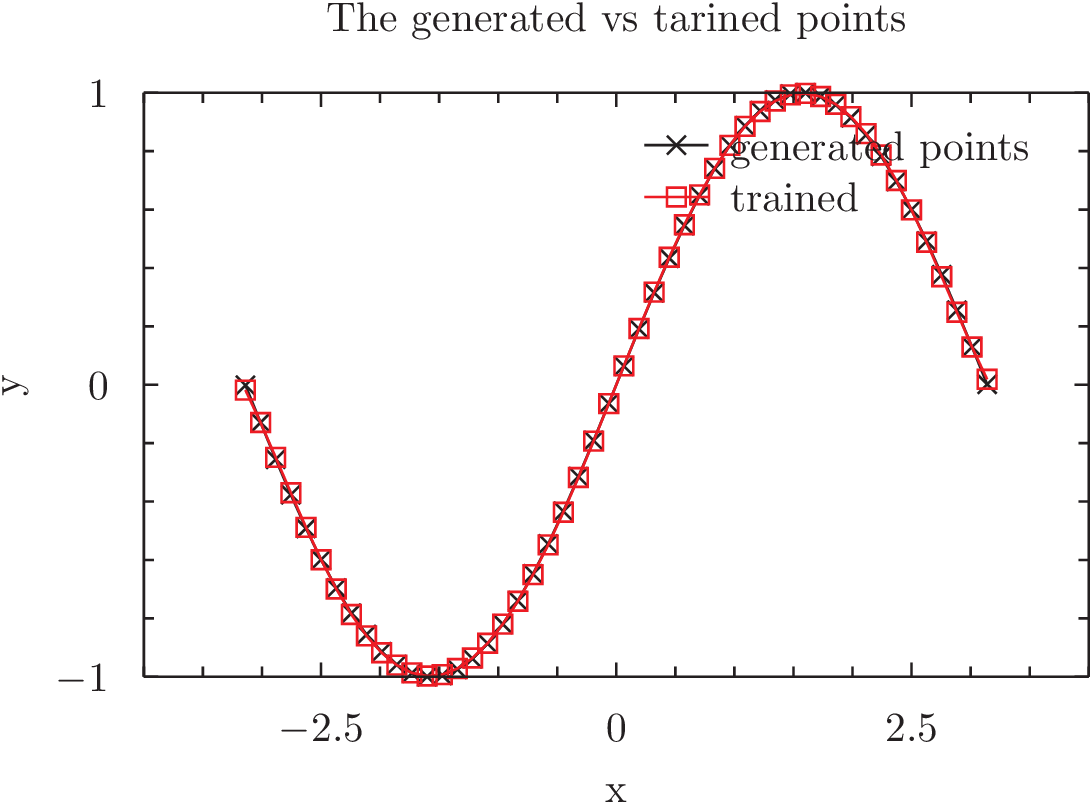
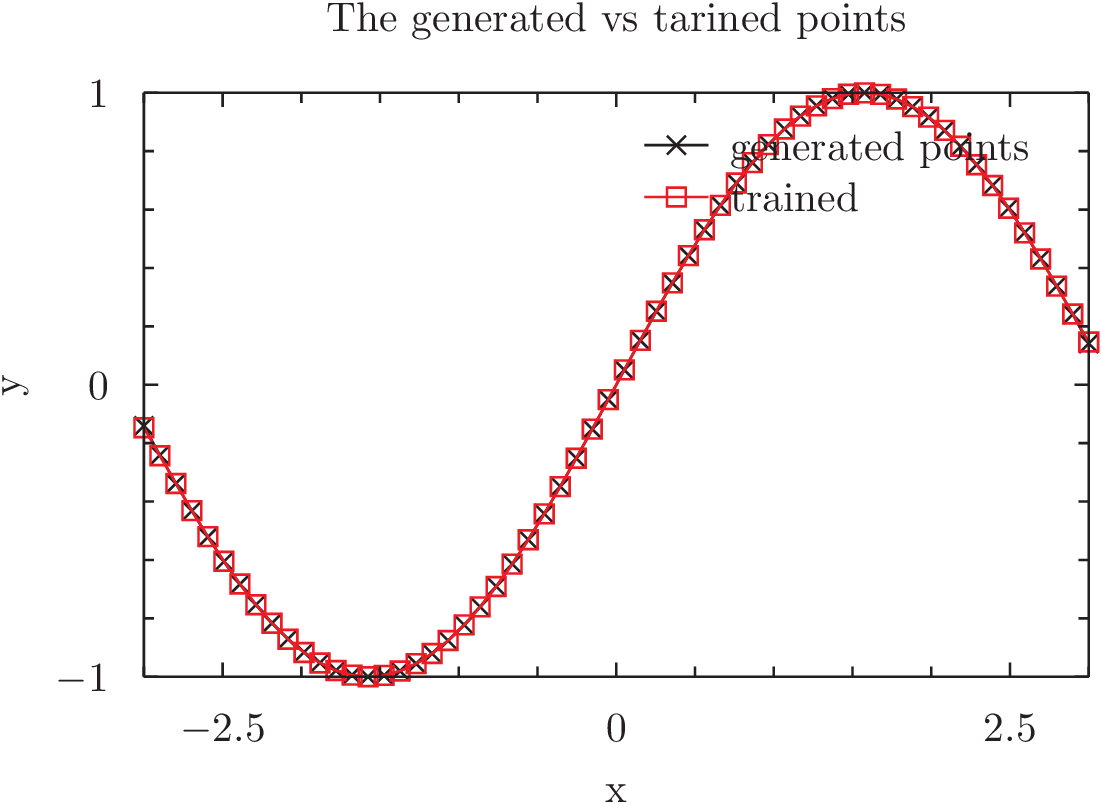
Final Check

diff --git a/homeworks/neuralnet/main.c b/homeworks/neuralnet/main.c
@@ -59,27 +59,19 @@ double cf (gsl_vector * c){
 
 
 //for future me I had a lot of difficulty here and then debuging was vbery hard. the spaces serve no purpose it was where I had print functions to make it easy to see the fault. if using for another thing then just ignore these
-
-
+//There is a lot of stuff I tried and didnt work which I have thought abouyt tidying but ended up not doing as it shows the development and is somthing I may come back too later.
 
 																
 int main(){
 	//allocate space for the network
-	int n=3, nn = 50;
-	double a = -3.14, b= 3.14;
+	int n=3, nn = 60;
+	double a = -3.0, b= 3.0;
 //	printf("PART 1\n");
 	//ann* network = ann_alloc(n, activation_func);
 	network = ann_alloc(n,activation_func);
 
 //	printf("PART 2\n");
 //	assign first params
-//	for(int i=0;i<n;i++){
-//		gsl_vector_set(network->params,3*i,a+(b-a)*i/(n-1));
-//		gsl_vector_set(network->params,3*i+1,1);
-//		gsl_vector_set(network->params,3*i+2,1);
-//		
-//		}
-		
 
 		//now I need to make the training and data   *****xs and ys remember******
 //		printf("PART 4\n");
